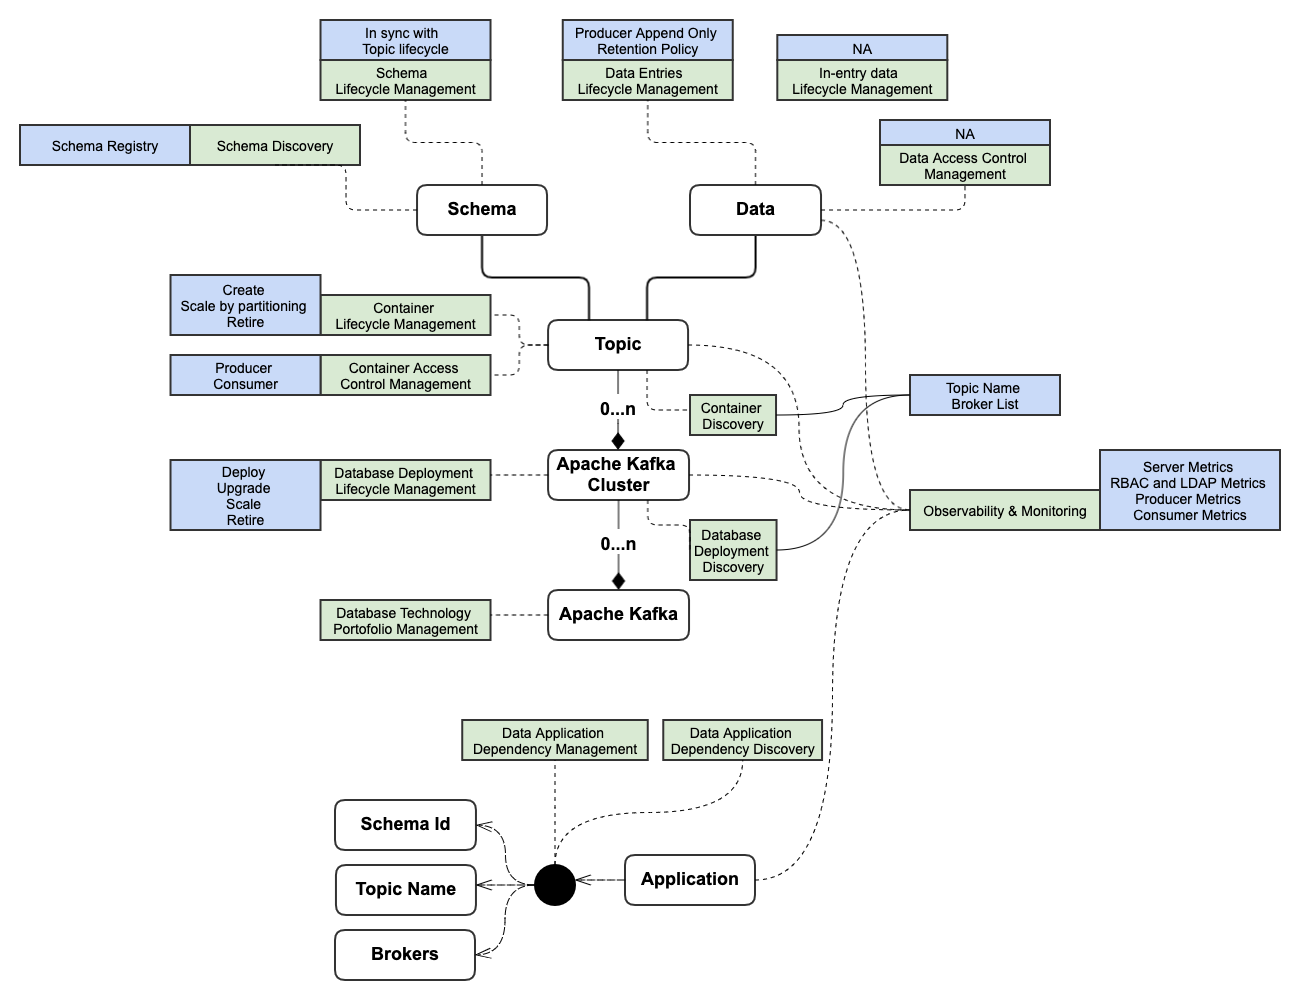
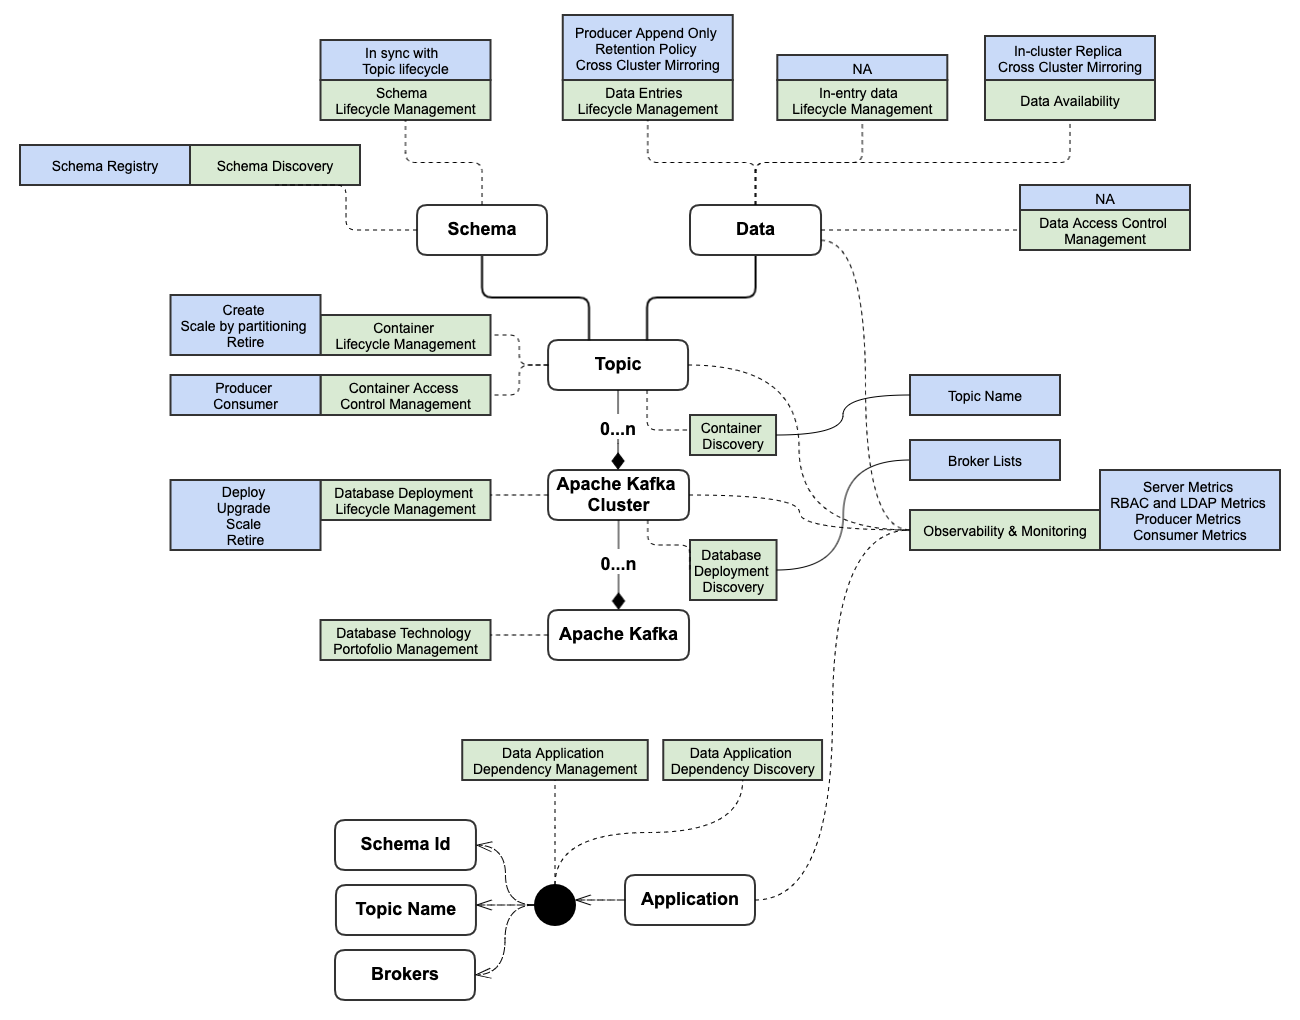
include data availability and fix picture link

diff --git a/docs/management-landscape-of-data-related-assets.md b/docs/management-landscape-of-data-related-assets.md
@@ -8,4 +8,4 @@ Metadata is the key of every management aspect of data related assets. ALMOST!
 ![](pics/management-landscape-of-data-related-assets-apache-kafka.png)
 
 ## Couchbase
-![](pics/management-landscape-of-data-related-assets-apache-kafka.png)
+![](pics/management-landscape-of-data-related-assets-couchbase.png)
